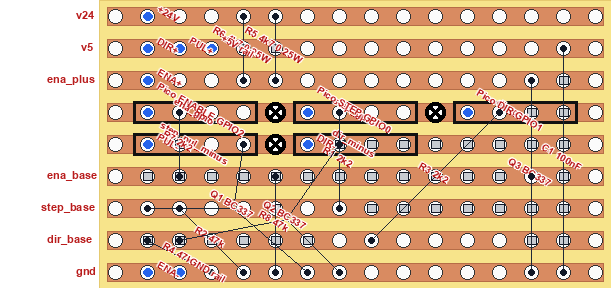
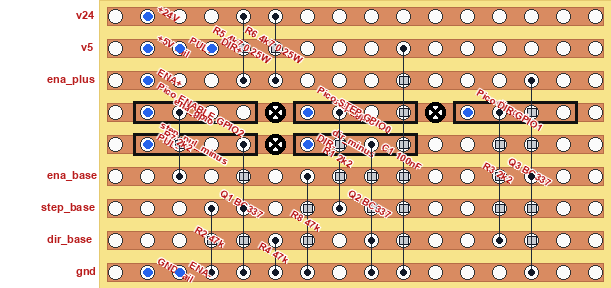
Fix nitehawk usb box lid, optimize circuit layout some more

diff --git a/tests/test_circuit_schematics.py b/tests/test_circuit_schematics.py
@@ -1,6 +1,10 @@
 from mege_ender_3v3ke_idex.circuit_schematics.examples.voltage_divider import (
     create_voltage_divider,
 )
+import importlib.util
+from pathlib import Path
+
+import mege_ender_3v3ke_idex.circuit_schematics.dsl as circuit_dsl
 from mege_ender_3v3ke_idex.circuit_schematics.simple import (
     Alignment,
     BjtNpn,
@@ -391,8 +395,8 @@ def _create_short_and_tall_element_schema():
     bottom = translate(0, -4)(
         create_node(Dot, "bottom_span", net=bottom_net, kind="schematic_junction")
     )
-    short = translate(5, -1)(create_element(Resistor, "Rshort", "1k", top, middle))
-    tall = translate(1, -2)(create_element(Resistor, "Rtall", "1k", top, bottom))
+    short = translate(1, -1)(create_element(Resistor, "Rshort", "1k", top, middle))
+    tall = translate(5, -2)(create_element(Resistor, "Rtall", "1k", top, bottom))
 
     return create_schema([top, middle, bottom], [short, tall])
 
@@ -409,6 +413,72 @@ def _create_same_row_element_schema():
     )
 
     return create_schema([left, right], [resistor])
+
+
+def _load_tb6600_schema_factory():
+    repo_root = Path(__file__).resolve().parents[1]
+    schematic_file = (
+        repo_root
+        / "klipper_setup"
+        / "klipper_config"
+        / "wiring"
+        / "pico_tb6600_stripboard_interface_schematic.py"
+    )
+    spec = importlib.util.spec_from_file_location(
+        "tb6600_stripboard_test_schematic",
+        schematic_file,
+    )
+    module = importlib.util.module_from_spec(spec)
+    spec.loader.exec_module(module)
+    return module.create_schema_for_tb6600_interface
+
+
+def _terminal_holes_by_element(schema, assignment):
+    holes_by_element = {}
+    for element in schema.elements:
+        terminal_holes = []
+        for terminal_name, net_name in element.terminal_nets.items():
+            key = ("terminal", element.name, terminal_name)
+            if key not in assignment.marker_column_maps:
+                continue
+            if net_name not in assignment.net_rows:
+                continue
+            terminal_holes.append(
+                (
+                    terminal_name,
+                    assignment.net_rows[net_name],
+                    assignment.marker_column_maps[key],
+                )
+            )
+        if terminal_holes:
+            holes_by_element[element.name] = tuple(terminal_holes)
+    return holes_by_element
+
+
+def _marker_positions_by_key(assignment):
+    marker_rows = {}
+    for visualization in assignment.net_visualizations:
+        row = assignment.net_rows[visualization.net_name]
+        for node_view in visualization.node_views:
+            key = ("node", node_view.name)
+            if key in assignment.marker_column_maps:
+                marker_rows[key] = row
+        for terminal in visualization.terminal_points:
+            key = ("terminal", terminal.element_name, terminal.terminal_name)
+            if key in assignment.marker_column_maps:
+                marker_rows[key] = row
+    return {
+        key: (row, assignment.marker_column_maps[key])
+        for key, row in marker_rows.items()
+    }
+
+
+def _create_tb6600_strict_assignment():
+    schema = _load_tb6600_schema_factory()()
+    assignment = assign_schema_nets_to_stripboard(schema)
+    assignment = compact_sparse_stripboard_rows(assignment)
+    assignment = compact_stripboard_connections_left(schema, assignment, strict=True)
+    return schema, assignment
 
 
 def test_get_schema_net_visualizations_sorts_nets_by_representative_y():
@@ -663,6 +733,115 @@ def test_left_compaction_allows_different_row_element_terminals_to_align():
 
     assert assignment.marker_column_maps[("terminal", "Rdup", "start")] == 2
     assert assignment.marker_column_maps[("terminal", "Rdup", "end")] == 2
+
+
+def test_stripboard_body_blockers_follow_vertical_horizontal_and_diagonal_paths():
+    vertical = circuit_dsl._stripboard_element_blockers_from_terminal_holes(
+        "Rvertical",
+        ((0, 2), (3, 2)),
+    )
+    horizontal = circuit_dsl._stripboard_element_blockers_from_terminal_holes(
+        "Rhorizontal",
+        ((2, 1), (2, 4)),
+    )
+    diagonal = circuit_dsl._stripboard_element_blockers_from_terminal_holes(
+        "Rdiagonal",
+        ((0, 0), (2, 2)),
+    )
+
+    assert {(blocker.row, blocker.col) for blocker in vertical} == {
+        (1, 2),
+        (2, 2),
+    }
+    assert {(blocker.row, blocker.col) for blocker in horizontal} == {
+        (2, 2),
+        (2, 3),
+    }
+    diagonal_positions = {(blocker.row, blocker.col) for blocker in diagonal}
+    assert (1, 1) in diagonal_positions
+    assert (0, 0) not in diagonal_positions
+    assert (2, 2) not in diagonal_positions
+
+
+def test_stripboard_body_blockers_for_multi_terminal_star_paths():
+    blockers = circuit_dsl._stripboard_element_blockers_from_terminal_holes(
+        "Qstar",
+        ((0, 0), (2, 2), (4, 0)),
+    )
+
+    blocker_positions = {(blocker.row, blocker.col) for blocker in blockers}
+    assert (2, 1) in blocker_positions
+    assert (0, 0) not in blocker_positions
+    assert (2, 2) not in blocker_positions
+    assert (4, 0) not in blocker_positions
+
+
+def test_left_compaction_prefers_compact_element_span_over_left_edge():
+    schema, assignment = _create_tb6600_strict_assignment()
+    holes = _terminal_holes_by_element(schema, assignment)
+
+    for element_name in ("Q1", "Q2", "Q3", "R1", "R2", "R3", "R4", "R7", "R8"):
+        columns = [column for _terminal_name, _row, column in holes[element_name]]
+        assert max(columns) - min(columns) == 0
+
+
+def test_tb6600_strict_stripboard_projection_has_no_duplicate_marker_holes():
+    _schema, assignment = _create_tb6600_strict_assignment()
+    marker_positions = _marker_positions_by_key(assignment)
+
+    assert len(marker_positions.values()) == len(set(marker_positions.values()))
+
+
+def test_tb6600_strict_stripboard_projection_has_no_terminal_on_body_blocker():
+    _schema, assignment = _create_tb6600_strict_assignment()
+    marker_positions = _marker_positions_by_key(assignment)
+    terminal_positions = {
+        position
+        for key, position in marker_positions.items()
+        if key[0] == "terminal"
+    }
+    blocker_positions = {(blocker.row, blocker.col) for blocker in assignment.blockers}
+
+    assert terminal_positions.isdisjoint(blocker_positions)
+
+
+def test_tb6600_body_paths_do_not_cross_other_terminal_holes_or_bodies():
+    schema, assignment = _create_tb6600_strict_assignment()
+    holes_by_element = _terminal_holes_by_element(schema, assignment)
+    terminal_positions = {
+        (row, column)
+        for terminal_holes in holes_by_element.values()
+        for _terminal_name, row, column in terminal_holes
+    }
+    seen_segments = []
+
+    for element_name, terminal_holes in holes_by_element.items():
+        element_terminal_positions = {
+            (row, column) for _terminal_name, row, column in terminal_holes
+        }
+        blockers = circuit_dsl._stripboard_element_blockers_from_terminal_holes(
+            element_name,
+            tuple(
+                (row, column)
+                for _terminal_name, row, column in terminal_holes
+            ),
+        )
+        blocker_positions = {(blocker.row, blocker.col) for blocker in blockers}
+        assert blocker_positions.isdisjoint(
+            terminal_positions - element_terminal_positions
+        )
+
+        segments = circuit_dsl._stripboard_element_body_segments_from_terminal_holes(
+            tuple(
+                (row, column)
+                for _terminal_name, row, column in terminal_holes
+            ),
+        )
+        assert not circuit_dsl._stripboard_segments_intersect_any(
+            segments,
+            seen_segments,
+        )
+        seen_segments.extend(segments)
 
 
 def test_left_compaction_allows_all_element_types_to_block_holes():

diff --git a/src/mege_ender_3v3ke_idex/designs/assemblies/nitehawk_usb_dual_board_housing_assembly.py b/src/mege_ender_3v3ke_idex/designs/assemblies/nitehawk_usb_dual_board_housing_assembly.py
@@ -190,6 +190,7 @@ def create_nitehawk_usb_dual_board_housing_assembly(
     lid_pilot_holes = PartCollector()
     lid_clearance_holes = PartCollector()
     lid_screws = PartCollector()
+    lid_bosses = []
     lid_screw_positions = []
     lid_outer_x = (
         -nitehawk_usb_dual_housing_lid_body_clearance
@@ -215,6 +216,7 @@ def create_nitehawk_usb_dual_board_housing_assembly(
                 direction=(1, 0, 0),
             )
             lid_screw_bosses = lid_screw_bosses.fuse(lid_boss)
+            lid_bosses.append(lid_boss)
 
             lid_pilot_hole = create_self_threading_hole_cutter(
                 nitehawk_usb_dual_housing_lid_screw_size,
@@ -435,6 +437,14 @@ def create_nitehawk_usb_dual_board_housing_assembly(
     lid_rim = lid_rim.cut(lid_rim_inner_cutter)
     lid_rim = align(lid_rim, housing_reference, Alignment.CENTER, axes=[1, 2])
     lid_rim = align(lid_rim, lid, Alignment.STACK_RIGHT)
+    for lid_boss in lid_bosses:
+        lid_boss_relief_cutter = materialize_bounding_box(
+            lid_boss,
+            x_enlargement=nitehawk_usb_dual_housing_lid_body_clearance + 0.2,
+            y_enlargement=0.2,
+            z_enlargement=0.2,
+        )
+        lid_rim = lid_rim.cut(lid_boss_relief_cutter)
     lid = lid.fuse(lid_rim)
     lid = lid.cut(lid_clearance_holes)
 

diff --git a/src/mege_ender_3v3ke_idex/circuit_schematics/dsl.py b/src/mege_ender_3v3ke_idex/circuit_schematics/dsl.py
@@ -1968,6 +1968,7 @@ def _stripboard_placement_items(schema, assignment):
                 "terminal_count": len(element_entries),
                 "horizontal_span": max(columns) - min(columns),
                 "source_left": min(columns),
+                "tall_rank": 1 if max(rows) - min(rows) > 4 else 0,
                 "type_rank": 1,
             }
         )
@@ -1984,6 +1985,7 @@ def _stripboard_placement_items(schema, assignment):
                 "terminal_count": 1,
                 "horizontal_span": 0,
                 "source_left": entry["column"],
+                "tall_rank": 0,
                 "type_rank": 0,
             }
         )
@@ -1992,10 +1994,11 @@ def _stripboard_placement_items(schema, assignment):
         sorted(
             items,
             key=lambda item: (
-                item["vertical_span"],
                 item["type_rank"],
+                item["tall_rank"],
                 item["source_left"],
-                item["terminal_count"],
+                -item["terminal_count"],
+                item["vertical_span"],
                 item["horizontal_span"],
                 item["name"],
             ),

diff --git a/tests/test_nitehawk_usb_dual_board_housing_assembly.py b/tests/test_nitehawk_usb_dual_board_housing_assembly.py
@@ -122,6 +122,19 @@ def test_nitehawk_usb_dual_board_housing_uses_self_threading_screw_holes():
         )
 
 
+def test_nitehawk_usb_dual_board_housing_lid_does_not_cut_body():
+    housing = _housing()
+    bottom_box = housing.leader
+    lid = housing.get_follower_part_by_name("nitehawk_usb_dual_housing_lid")
+
+    bottom_box_volume = get_volume(bottom_box)
+
+    assert get_volume(bottom_box.cut(lid)) == pytest.approx(
+        bottom_box_volume,
+        abs=0.001,
+    )
+
+
 def test_nitehawk_usb_dual_board_housing_places_two_boards_side_by_side():
     housing = _housing()
 

diff --git a/klipper_setup/klipper_config/wiring/pico_tb6600_stripboard_interface_layout.py b/klipper_setup/klipper_config/wiring/pico_tb6600_stripboard_interface_layout.py
@@ -22,7 +22,7 @@ def create_stripboard_projection():
     schema = create_schema_for_tb6600_interface()
     assignment = assign_schema_nets_to_stripboard(schema)
     assignment = compact_sparse_stripboard_rows(assignment)
-    assignment = compact_stripboard_connections_left(schema, assignment, strict=False)
+    assignment = compact_stripboard_connections_left(schema, assignment, strict=True)
     return schema, assignment
 
 
